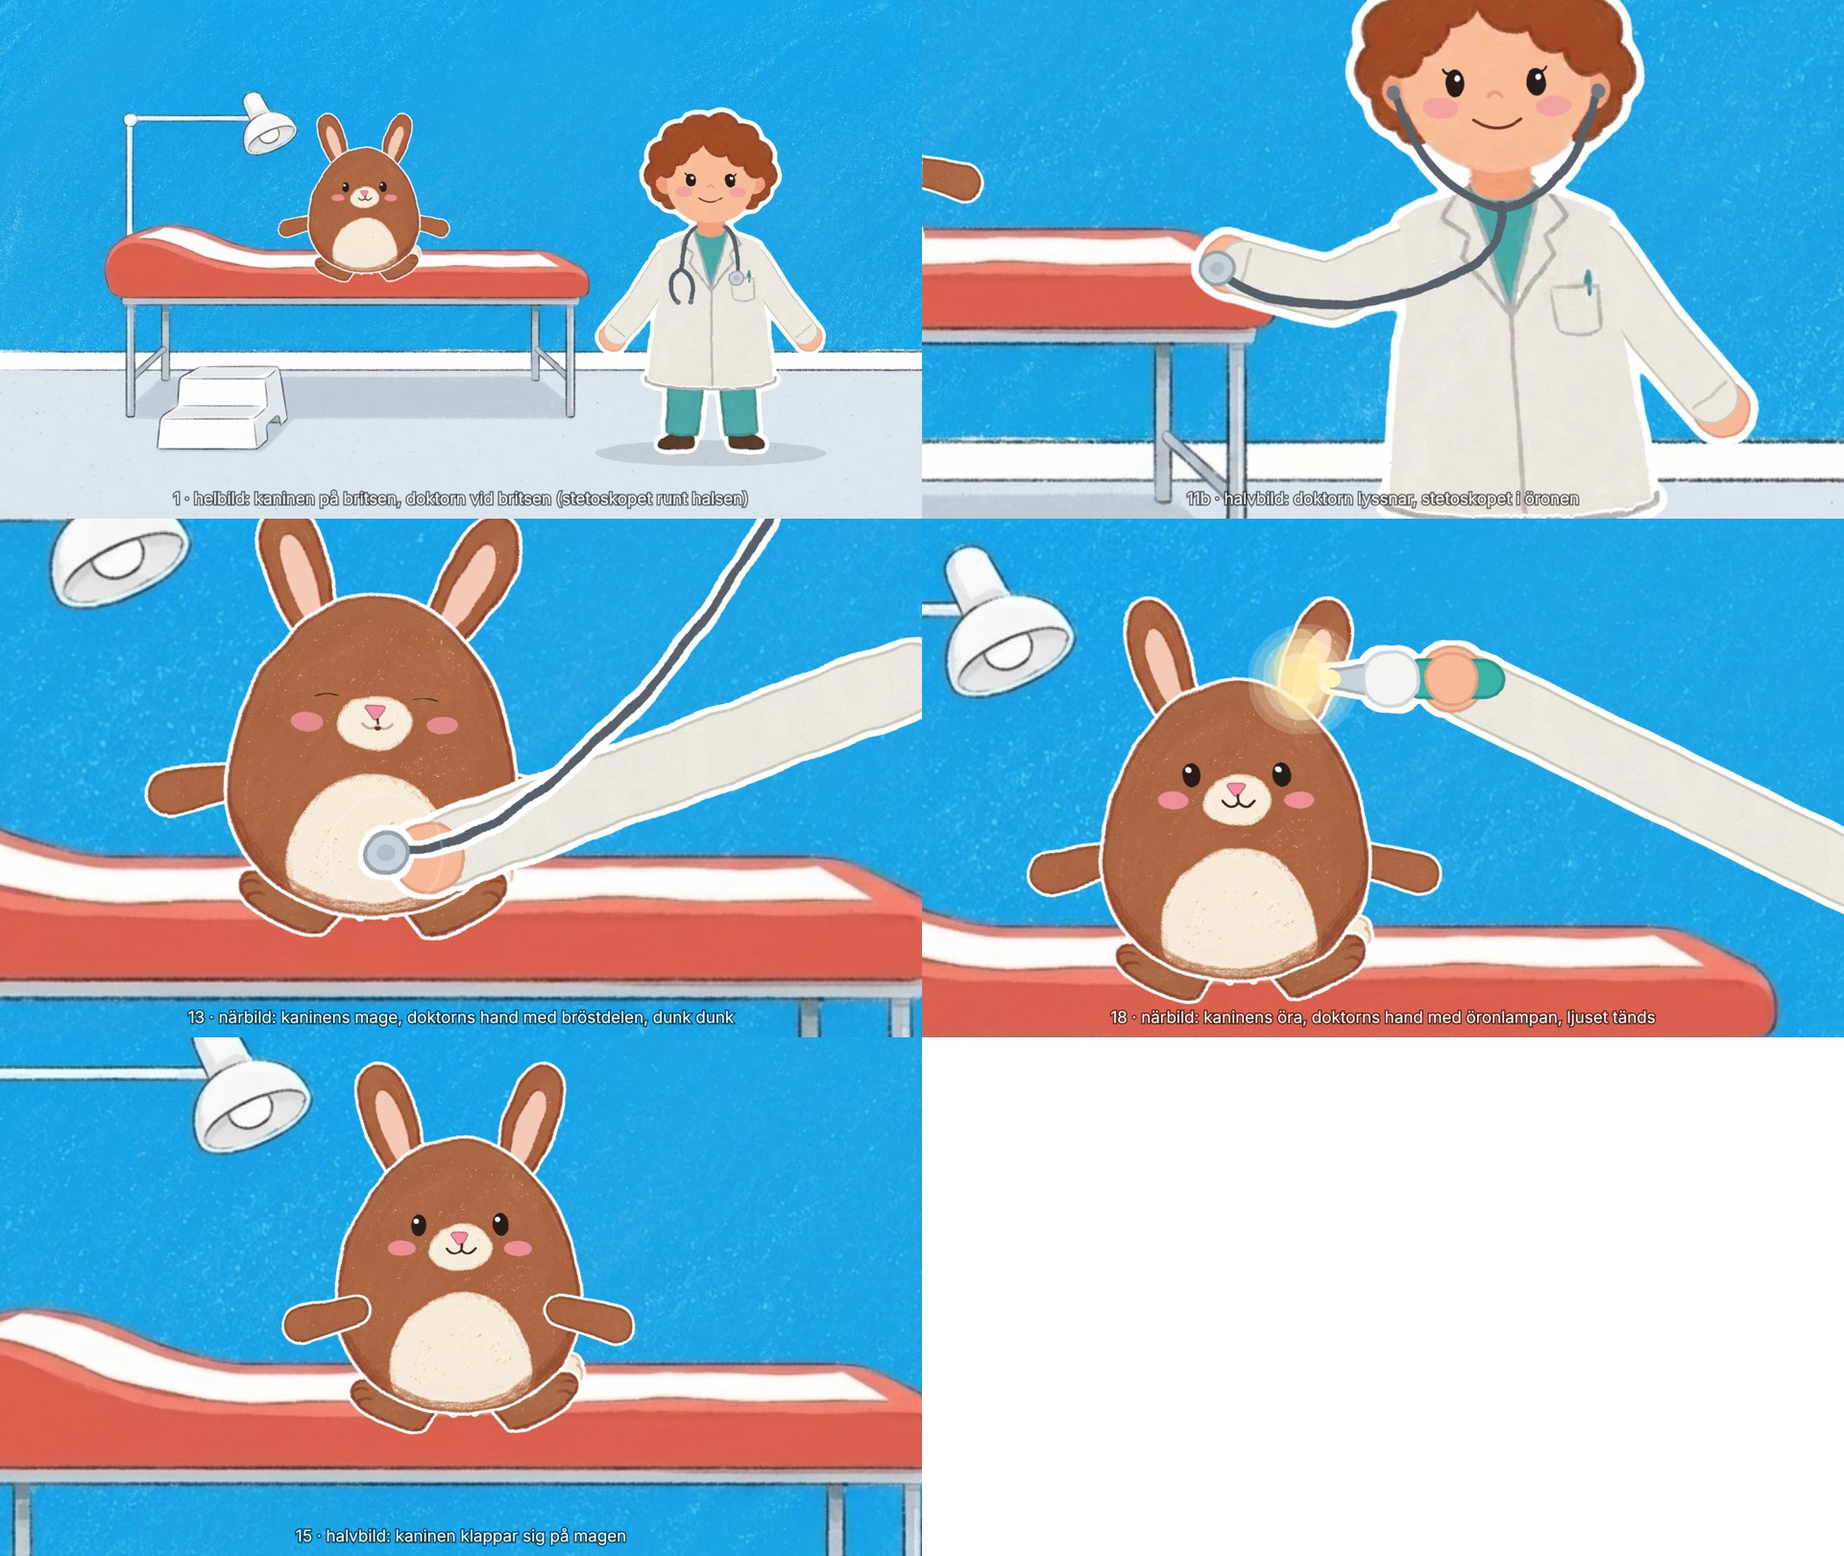
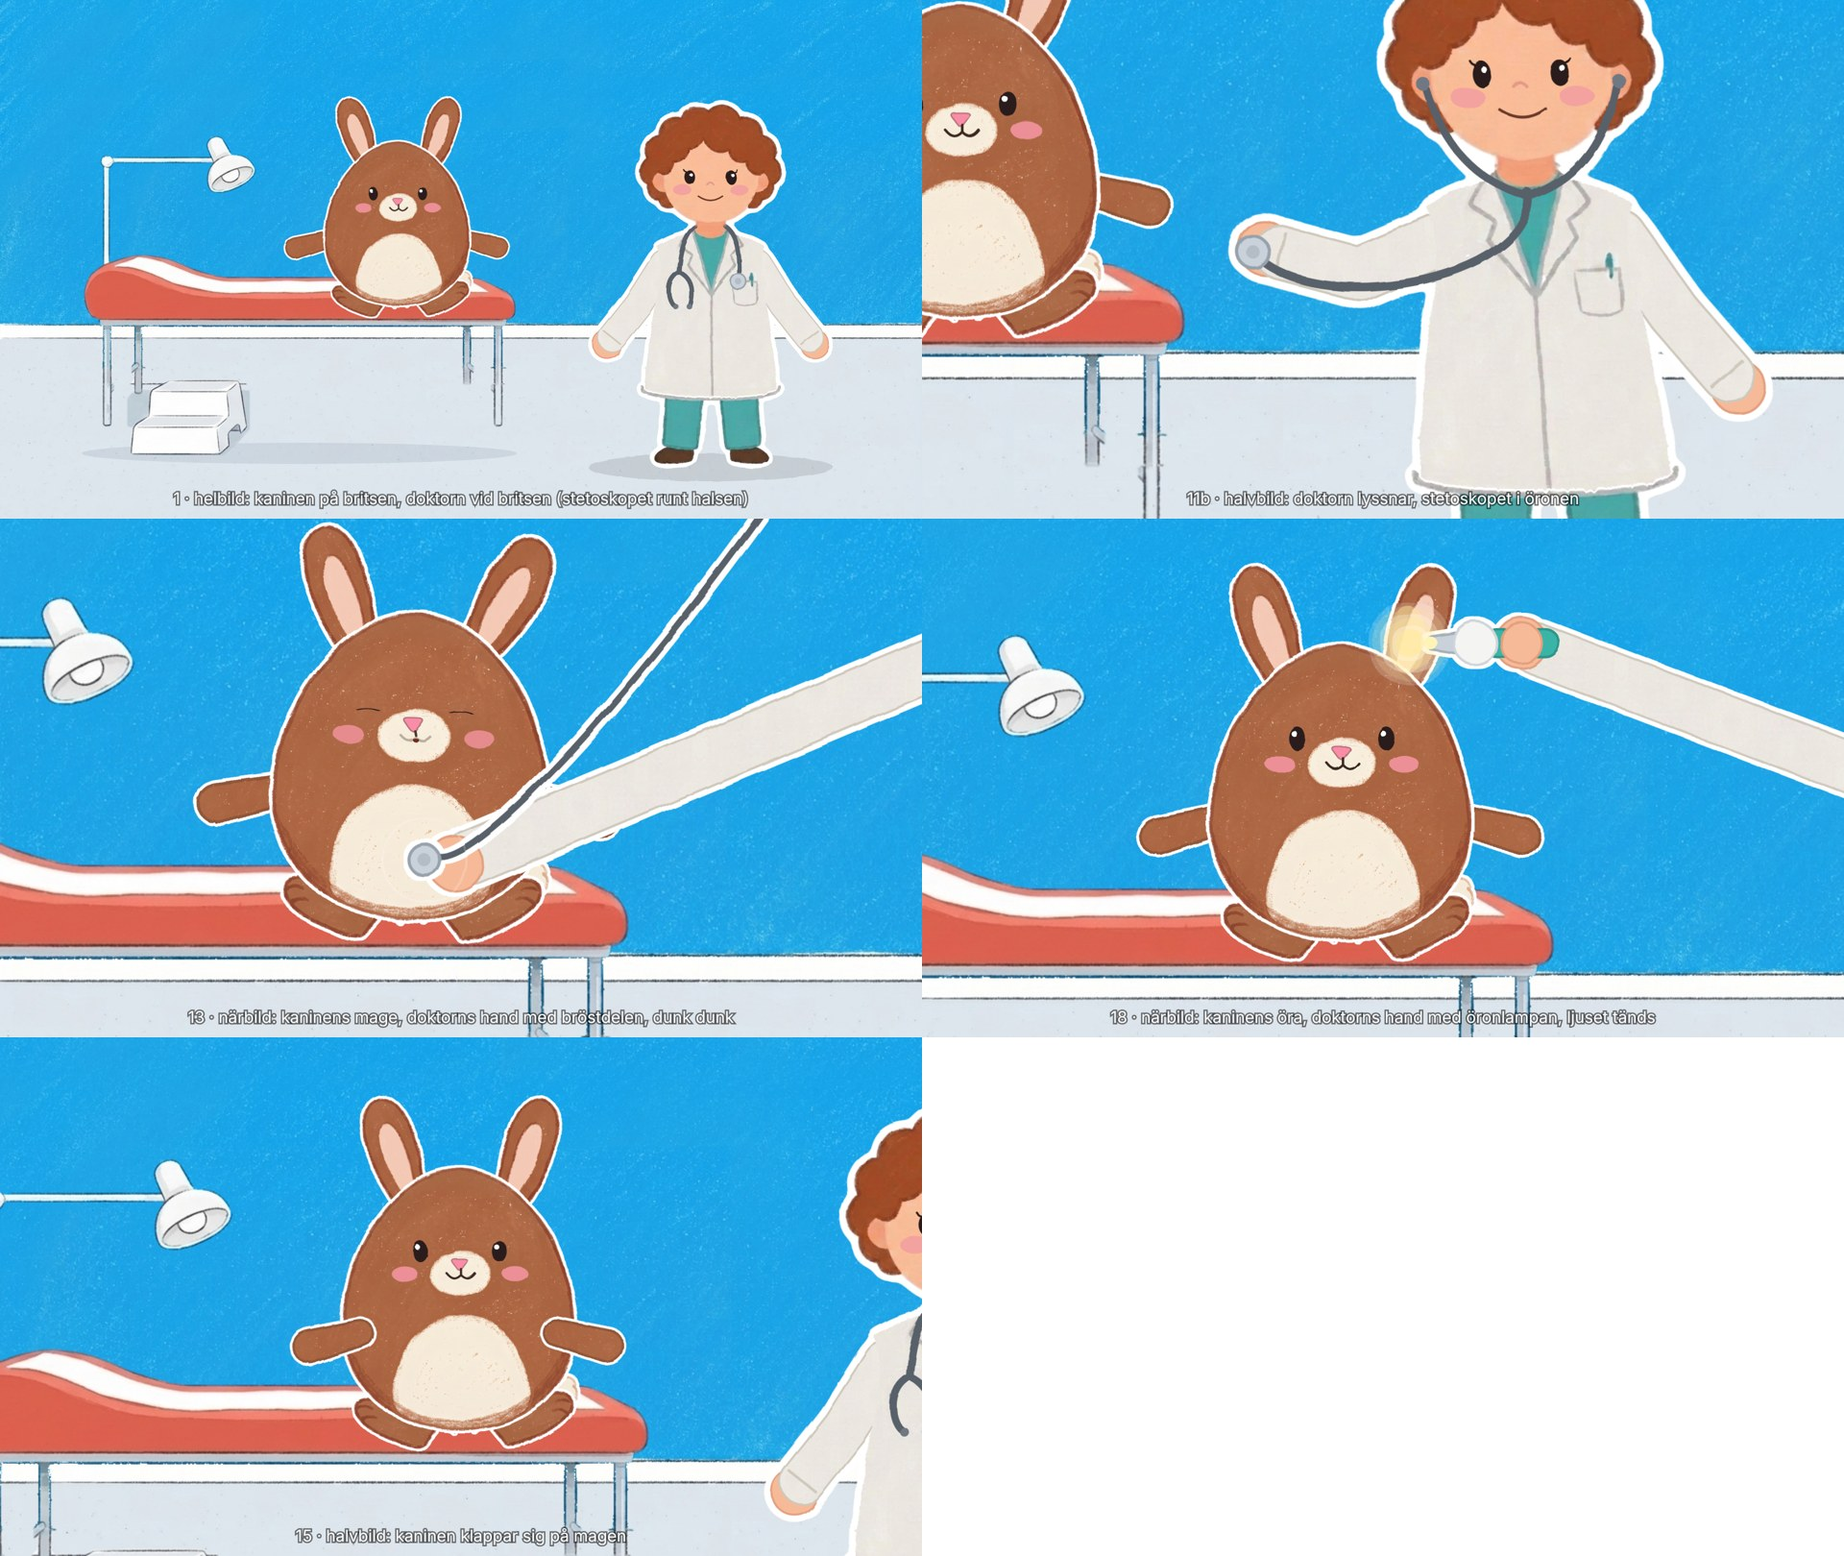
046: komposition v2 – större tomt rum och britsen som eget urklipp (verktyg/mottagning_delar.py), britsen lägre, kaninen större, doktorn dold i närbilderna med instick
Claude-Session: https://claude.ai/code/session_01DEaxNzsmbXEwSKmxFy2aQ3

diff --git a/avsnitt/046-kaninen-gar-till-doktorn/prov/narbilder.html b/avsnitt/046-kaninen-gar-till-doktorn/prov/narbilder.html
@@ -20,7 +20,7 @@
     </filter>
   </defs>
   <g id="kamera">
-    <image href="/assets/bakgrunder/mottagningen/mottagningen-v2.jpg" width="1920" height="1080" preserveAspectRatio="xMidYMid slice"/>
+    <g id="rummet"></g>
     <g filter="url(#boil)"><g id="figurer"></g></g>
     <g filter="url(#boil)"><g id="hand"></g></g>
   </g>
@@ -34,9 +34,14 @@ const $ = id => document.getElementById(id), f1 = v => v.toFixed(1);
 const kl = (k, a = 0, b = 1) => Math.max(a, Math.min(b, k)), mjuk = k => (k = kl(k), k * k * (3 - 2 * k));
 const sok = new URLSearchParams(location.search), BILD = +(sok.get('bild') || 1);
 
-// Mått i 1920×1080 (mottagningen v2, 1376×768 × 1,395): britsens dyna överkant y ca 520 (x 225–1225), pallen x 330–600.
-const DOKTOR = [1480, 955, 0.8];             // bakgrunder/mottagningen.md: x 1480, fötterna y 955, SKALA 0,8
-const KANIN = [760, 600, 0.42];              // sitter på britsen (prövas fram i bild 1)
+// Komposition v2 (Sanna 2026-11-20: "make bunny larger and room bigger bench lower"): det tomma, större rummet
+// (mottagningen-tom.png, verktyg/mottagning_delar.py) fyller bilden, britsen med pallen och lampan är ett eget urklipp
+// som står lägre, och kaninen är större. Golvlisten hamnar kring y 690.
+const RUM = { fil: '/assets/bakgrunder/mottagningen/mottagningen-tom.png', w: 1876, h: 1058 }, RS = 1920 / RUM.w;
+const BRITS = { fil: '/assets/bakgrunder/mottagningen/cut/brits.png', w: 725, h: 536, x: 170, fot: 950, s: 1.25, dyna: 235 };   // fot: benens nederkant, dyna: dynans överkant i urklippet
+const DYNA_Y = BRITS.fot - (BRITS.h - BRITS.dyna) * BRITS.s;
+const DOKTOR = [1480, 985, 0.85];
+const KANIN = [830, DYNA_Y + 105, 0.55];     // sitter på britsen: riggens fötter ca 190 enheter under dynan
 // Kaninens mage och högra öra i riggens 1024-ruta (Kanel: magens fläck, örats insida)
 const MAGE = [540, 700], ORA = [672, 190];
 const DS = DOKTOR[2], HAND = { W: 66 * DS, R: 35 * DS, KANT: '#cfc8bc', HUD: '#f7ba99', HUDKANT: '#e3a07f' };
@@ -72,32 +77,39 @@ function rita(t) {
   if (BILD === 5) kp = { ...kp, fram: [1, 1], klapp: 30 };
   DL.rita(GD, bl(DL.blanda('neutral', 'glad', 1), t), DL.blandaPose('neutral', dp, 1));
   KL.rita(GK, bl(kf, t + 1.3), kp);
+  GD.setAttribute('display', BILD === 3 || BILD === 4 ? 'none' : 'inline');   // närbild med instick: bara doktorns hand syns (receptet)
   $('hand').innerHTML = '';
   const etikett = s => $('text').innerHTML = `<text x="960" y="1050" font-size="34">${s}</text>`;
   if (BILD === 1) { kamera(1, 960, 540); etikett('1 · helbild: kaninen på britsen, doktorn vid britsen (stetoskopet runt halsen)'); }
-  if (BILD === 2) { const [x, y] = punkt(GD.querySelector('.drag'), 512, 420); kamera(2.1, x - 120, y + 40);
+  if (BILD === 2) { const [x, y] = punkt(GD.querySelector('.drag'), 512, 420); kamera(1.9, x - 160, y + 60);
     etikett('11b · halvbild: doktorn lyssnar, stetoskopet i öronen'); }
   if (BILD === 3) {
     const [mx, my] = punkt(GK.querySelector('.mage'), MAGE[0], MAGE[1]);
-    kamera(2.6, mx + 60, my - 60);
+    kamera(1.9, mx + 40, my - 90);
     const inn = mjuk(t / 0.6), bx = mx + 260 * (1 - inn), by = my;
-    $('hand').innerHTML = instick([bx + 34, by + 4], [mx + 420, my - 140], () => '', inn)
-      + `<g filter="url(#saksKant)">${slang(bx + 14, by - 4, mx + 330, my - 330)}${brostdel(bx, by, 17)}</g>`
+    $('hand').innerHTML = instick([bx + 34, by + 4], [mx + 760, my - 300], () => '', inn)
+      + `<g filter="url(#saksKant)">${slang(bx + 14, by - 4, mx + 520, my - 640)}${brostdel(bx, by, 17)}</g>`
       + (inn >= 1 ? ringar(bx, by, t - 0.6) : '');
     etikett('13 · närbild: kaninens mage, doktorns hand med bröstdelen, dunk dunk'); }
   if (BILD === 4) {
     const [ox, oy] = punkt(GK.querySelector('image.ear-r'), ORA[0], ORA[1]);
-    kamera(2.4, ox + 60, oy + 90);
+    kamera(1.8, ox - 40, oy + 160);
     const inn = mjuk(t / 0.6), ljus = kl((t - 0.8) / 0.25);
     $('hand').innerHTML = `<ellipse cx="${f1(ox - 12)}" cy="${f1(oy)}" rx="22" ry="40" fill="#ffe680" opacity="${f1(0.4 * ljus)}"/>`
-      + instick([ox + 120, oy + 4], [ox + 520, oy + 200], (x, y) => oronlampa(x, y, 0, 0.95, ljus)
+      + instick([ox + 120, oy + 4], [ox + 900, oy + 300], (x, y) => oronlampa(x, y, 0, 0.95, ljus)
         + `<circle cx="${f1(x)}" cy="${f1(y)}" r="${f1(HAND.R * 0.8)}" fill="${HAND.HUD}" stroke="${HAND.HUDKANT}" stroke-width="2.5"/>`, inn);
     etikett('18 · närbild: kaninens öra, doktorns hand med öronlampan, ljuset tänds'); }
-  if (BILD === 5) { const [x, y] = punkt(GK.querySelector('.drag'), 512, 560); kamera(2.2, x, y);
+  if (BILD === 5) { const [x, y] = punkt(GK.querySelector('.drag'), 512, 560); kamera(1.6, x, y - 30);
     etikett('15 · halvbild: kaninen klappar sig på magen'); }
   $('brus').setAttribute('seed', Math.floor(t * 10) % 50 + 1);
 }
 
+function rummet() {
+  const bw = BRITS.w * BRITS.s, bh = BRITS.h * BRITS.s;
+  $('rummet').innerHTML = `<image href="${RUM.fil}" width="${f1(RUM.w * RS)}" height="${f1(RUM.h * RS)}"/>
+    <ellipse cx="${f1(BRITS.x + bw / 2)}" cy="${f1(BRITS.fot - 6)}" rx="${f1(bw * 0.5)}" ry="22" fill="#3a5068" opacity="0.10"/>
+    <image href="${BRITS.fil}" x="${BRITS.x}" y="${f1(BRITS.fot - bh)}" width="${f1(bw)}" height="${f1(bh)}"/>`;
+}
 window.seek = t => { window.stilla = true; rita(t); };
 window.ready = (async () => {
   // Figurernas egna <defs> (doktorns #dkant och #rock, kaninens #orrot …) hämtas ur deras rigg-sidor.
@@ -108,6 +120,7 @@ window.ready = (async () => {
       $('defs').appendChild(document.importNode(e, true)); });
   }
   $('defs').insertAdjacentHTML('beforeend', saksKant(4));
+  rummet();
   DL = await v2rigg('doktorn-a'); KL = await v2rigg('kaninen-kanel');
   GD = DL.figur(DOKTOR[0], DOKTOR[1], DOKTOR[2], $('figurer'));
   GK = KL.figur(KANIN[0], KANIN[1], KANIN[2], $('figurer'));

diff --git a/verktyg/mottagning_delar.py b/verktyg/mottagning_delar.py
@@ -1,0 +1,90 @@
+#!/usr/bin/env python3
+"""Mottagningen i delar (046, Sanna 2026-11-20: "make bunny larger and room bigger bench lower, need to work more on composition").
+
+Ur assets/bakgrunder/mottagningen/mottagningen-v2.jpg (1376×768):
+  mottagningen-tom.png   rummet utan brits, pall och lampa, och STÖRRE: väggen och golvet förlängs åt alla håll (upprepas),
+                         så att kameran ser mer av rummet och figurerna blir större i förhållande till det.
+  cut/brits.png          britsen med lampan och pallen (de hänger ihop i bilden), öppningen under britsen genomskinlig
+Väggen, golvlisten och golvet är släta, så det tomma rummet fylls rad för rad med samma rads tomma högra del
+(x 900–1376), mjukt ihopblandat i kanterna. Måtten skrivs till mottagningen-delar.json.
+
+  python3 verktyg/mottagning_delar.py
+"""
+import json
+from pathlib import Path
+import numpy as np
+from PIL import Image
+from scipy import ndimage
+
+MAPP = Path(__file__).resolve().parent.parent / 'assets/bakgrunder/mottagningen'
+src = np.asarray(Image.open(MAPP / 'mottagningen-v2.jpg').convert('RGB')).astype(float)
+H, W, _ = src.shape
+
+# 1. Det tomma rummet: rektangeln med sakerna ersätts av samma rader ur den tomma högra delen (tiling i x).
+X0, X1, Y0, Y1, TOM = 140, 905, 120, 700, 900
+tom = src.copy()
+bredd = W - TOM
+for x in range(X0, X1):
+    sx = TOM + (x - X0) % bredd
+    tom[Y0:Y1, x] = src[Y0:Y1, sx]
+# mjuk kant (12 px) mot originalet runt rektangeln
+mask = np.zeros((H, W)); mask[Y0:Y1, X0:X1] = 1
+mask = ndimage.gaussian_filter(mask, 6)
+tom = src * (1 - mask[..., None]) + tom * mask[..., None]
+
+# 2. Sakerna: det som skiljer originalet från det tomma rummet. Britsen (med lampan) och pallen är de två största bitarna.
+diff = np.abs(src - tom).max(2) > 28
+diff[:, :X0 - 4] = diff[:, X1 + 4:] = False
+diff = ndimage.binary_closing(diff, iterations=3)
+# bara små hål fylls (i dynan och pallen); öppningen under britsen är vägg och ska vara genomskinlig
+hal = ndimage.binary_fill_holes(diff) & ~diff
+hl, hn = ndimage.label(hal)
+if hn: diff |= np.isin(hl, 1 + np.nonzero(ndimage.sum(hal, hl, range(1, hn + 1)) < 1500)[0])
+diff = ndimage.binary_opening(diff, iterations=1)
+# Under dynan (golvlisten och golvet, y ≥ 505) bara benen och pallen, inte skuggan och golvlistens skarvar.
+ben = np.nonzero(diff[465:500].mean(0) > 0.6)[0]                 # benen syns som grå streck mot väggen
+benkol = np.zeros(W, bool)
+for x in ben: benkol[max(0, x - 2):x + 3] = True
+PALL = (slice(530, 672), slice(228, 440))                      # pallen (britsen.png: x 80–275, y 405–536 + utklippets hörn)
+pall = np.zeros((H, W), bool); pall[PALL] = ndimage.binary_fill_holes(ndimage.binary_closing(np.abs(src - tom).max(2)[PALL] > 14, iterations=4))
+pall = ndimage.binary_opening(pall, iterations=2)
+under = np.zeros((H, W), bool); under[505:] = True
+stark = np.abs(src - tom).max(2) > 35
+diff = (diff & ~under) | (stark & under & ndimage.binary_dilation(benkol[None, :] & stark, iterations=2)) | pall
+lab, n = ndimage.label(diff)
+storlek = ndimage.sum(diff, lab, range(1, n + 1))
+bitar = sorted((1 + np.argsort(storlek)[::-1][:2]).tolist(), key=lambda k: np.nonzero(lab == k)[0].min())   # britsen (högst upp) först
+(MAPP / 'cut').mkdir(exist_ok=True)
+matt = {}
+for namn, k in zip(['brits'], bitar):   # britsen, lampan och pallen hänger ihop: en bit
+    m = lab == k
+    ys, xs = np.nonzero(m); y0, y1, x0, x1 = ys.min(), ys.max() + 1, xs.min(), xs.max() + 1
+    img = np.zeros((y1 - y0, x1 - x0, 4), np.uint8)
+    img[..., :3] = src[y0:y1, x0:x1].clip(0, 255)
+    a = ndimage.gaussian_filter(m[y0:y1, x0:x1].astype(float), 0.8)
+    img[..., 3] = (a.clip(0, 1) * 255).astype(np.uint8)
+    bla = (img[..., 2] > 170) & (img[..., 0] < 120)            # väggens blå i kanten runt benen och ramen
+    img[bla, 3] = 0
+    Image.fromarray(img).save(MAPP / 'cut' / f'{namn}.png')
+    matt[namn] = {'x': int(x0), 'y': int(y0), 'w': int(x1 - x0), 'h': int(y1 - y0)}
+
+# 3. Större rum: väggen och golvet upprepas (förskjutna, inte speglade: spegling ger synliga kalejdoskopmönster i kornet).
+UPP, NER, SID = 140, 150, 250
+# Varje utfyllnad är en förskjuten kopia av bildens egen kant, och skarven tonas över T px.
+T = 60
+def forlang(a, ut, axel, fore):
+    n = a.shape[axel]; kopia = np.take(a, range(0, ut + T) if fore else range(n - ut - T, n), axis=axel)
+    vikt = np.linspace(0, 1, T); vikt = vikt if fore else vikt[::-1]
+    form = [1, 1, 1]; form[axel] = T; vikt = vikt.reshape(form)
+    if fore:   # kopian ligger före bilden; dess sista T rader tonas in i bildens första T
+        mitt = np.take(kopia, range(ut, ut + T), axis=axel) * (1 - vikt) + np.take(a, range(T), axis=axel) * vikt
+        return np.concatenate([np.take(kopia, range(ut), axis=axel), mitt, np.take(a, range(T, n), axis=axel)], axis=axel)
+    mitt = np.take(a, range(n - T, n), axis=axel) * vikt + np.take(kopia, range(T), axis=axel) * (1 - vikt)
+    return np.concatenate([np.take(a, range(n - T), axis=axel), mitt, np.take(kopia, range(T, ut + T), axis=axel)], axis=axel)
+stor = forlang(forlang(tom, SID, 1, True), SID, 1, False)
+stor = forlang(forlang(stor, UPP, 0, True), NER, 0, False)
+Image.fromarray(stor.clip(0, 255).astype(np.uint8)).save(MAPP / 'mottagningen-tom.png')
+matt['tom'] = {'w': stor.shape[1], 'h': stor.shape[0], 'utfyllnad': {'upp': UPP, 'ner': NER, 'sida': SID},
+               'golvlist': [520 + UPP, 545 + UPP]}
+(MAPP / 'mottagningen-delar.json').write_text(json.dumps(matt, indent=2, ensure_ascii=False) + '\n')
+print(json.dumps(matt, ensure_ascii=False))

diff --git a/bakgrunder/mottagningen.md b/bakgrunder/mottagningen.md
@@ -14,7 +14,9 @@ Inget fönster, inga gardiner, ingen växt, inga tavlor, inga kors (rödakorsmä
 
 Stetoskopet och öronlampan är egna urklipp (grind 2, `rekvisita/`). Vågen och linjalen från receptets "andra moment" kommer inte med i piloten.
 
-**Bild som används: `assets/bakgrunder/mottagningen/mottagningen-v2.jpg`** (2026-11-20): D redigerad i Flow, utan kritstreck på väggen och utan handfat (original `original/mottagningen-d2.jpg`). **v1** = alternativ D (vald av Sanna 2026-11-20), `mottagningen-v1.jpg` (1376×768, original `original/mottagningen-d1.jpg`): himmelsblå vägg, vit golvlist, korallröd brits med papper och höjd huvudända, tunn öppen metallram, vit pall, en vit undersökningslampa på väggarm ovanför britsens vänstra ände, handfatet avskuret i vänsterkanten. Nästa: en redigering utan kritstreck och utan handfat (prompten längst ner). Jämförelse med alla tagningar: `original/jamforelse.jpg`.
+**Komposition v2, i delar (Sanna 2026-11-20: *"make bunny larger and room bigger bench lower"*):** `python3 verktyg/mottagning_delar.py` gör ur v2 ett **tomt, större rum** (`mottagningen-tom.png`, 1876×1058: britsen, pallen och lampan borttagna, väggen och golvet förlängda) och **britsen med pallen och lampan som urklipp** (`cut/brits.png`, 725×536, öppningen under britsen genomskinlig). Måtten i `mottagningen-delar.json`. I 046-provet (`avsnitt/046-kaninen-gar-till-doktorn/prov/narbilder.html`): rummet fyller bilden (skala 1,023, golvlisten kring y 690), britsen skala 1,25 med benen på y 950 (dynan ca y 575), kaninen skala 0,55 på britsen, doktorn x 1480, fötterna y 985, skala 0,85.
+
+**Bild som används (före komposition v2): `assets/bakgrunder/mottagningen/mottagningen-v2.jpg`** (2026-11-20): D redigerad i Flow, utan kritstreck på väggen och utan handfat (original `original/mottagningen-d2.jpg`). **v1** = alternativ D (vald av Sanna 2026-11-20), `mottagningen-v1.jpg` (1376×768, original `original/mottagningen-d1.jpg`): himmelsblå vägg, vit golvlist, korallröd brits med papper och höjd huvudända, tunn öppen metallram, vit pall, en vit undersökningslampa på väggarm ovanför britsens vänstra ände, handfatet avskuret i vänsterkanten. Nästa: en redigering utan kritstreck och utan handfat (prompten längst ner). Jämförelse med alla tagningar: `original/jamforelse.jpg`.
 
 Tidigare plan (alternativ A): Google Flow, Nano Banana Pro, 16:9, 0 krediter, Sanna kör Flow själv. Bild 1 = `assets/bakgrunder/vardagsrummet/vardagsrummet-v2.jpeg` (bara stilreferens, kopia i `~/Downloads/mottagningen-stilref-vardagsrummet.jpg`). Fyra tagningar. Lägg tagningarna i `assets/bakgrunder/mottagningen/original/`.
 

diff --git a/avsnitt/046-kaninen-gar-till-doktorn/manus.md b/avsnitt/046-kaninen-gar-till-doktorn/manus.md
@@ -1,6 +1,6 @@
 # Avsnitt 046 – Kaninen går till doktorn (plan)
 
-**Status:** plan 2026-11-20, **grind 1 (manus) godkänd av Sanna 2026-11-20**, version 1. Grind 2: doktorn A (nu utan inbakat stetoskop), mottagningen v2, stetoskopet och öronlampan i kod (`uttryck.html?ark=saker`). Närbildsprovet: [`prov/narbilder.html`](prov/narbilder.html) (`node avsnitt/046-kaninen-gar-till-doktorn/prov/prov.mjs`), kontaktark `prov/narbilder-kontakt.jpg`: helbild, doktorn lyssnar med stetoskopet i öronen (11b), magen med bröstdelen (13), örat med lampan (18), klapp på magen (15). Doktorns hand i närbilderna är rockärm + hand i kod med vit kant. Nästa: Sannas ok på provet, sedan grind 3 (Malins röst). Piloten för **Besöket** ([`format/besoket.md`](../../format/besoket.md)), en gren av bilderboken ([`format/bilderbok.md`](../../format/bilderbok.md), skillen `bilderbok`). Avsnittet förbereder små barn för ett besök hos doktorn. Malin berättar och kaninen svarar med ljud, öron och ansikte. **Doktorn säger inget**, **ingen spruta**, **bara mottagningen** (Sanna 2026-11-20). Inget är byggt än. Ca 4 min.
+**Status:** plan 2026-11-20, **grind 1 (manus) godkänd av Sanna 2026-11-20**, version 1. Grind 2: doktorn A (nu utan inbakat stetoskop), mottagningen v2, stetoskopet och öronlampan i kod (`uttryck.html?ark=saker`). Närbildsprovet: [`prov/narbilder.html`](prov/narbilder.html) (`node avsnitt/046-kaninen-gar-till-doktorn/prov/prov.mjs`), kontaktark `prov/narbilder-kontakt.jpg`: helbild, doktorn lyssnar med stetoskopet i öronen (11b), magen med bröstdelen (13), örat med lampan (18), klapp på magen (15). Doktorns hand i närbilderna är rockärm + hand i kod med vit kant. **Komposition v2** (Sanna 2026-11-20): större rum, britsen lägre som eget urklipp, kaninen större (0,55), doktorn syns inte i närbilderna med instick (se `bakgrunder/mottagningen.md`). Nästa: Sannas ok på provet, sedan grind 3 (Malins röst). Piloten för **Besöket** ([`format/besoket.md`](../../format/besoket.md)), en gren av bilderboken ([`format/bilderbok.md`](../../format/bilderbok.md), skillen `bilderbok`). Avsnittet förbereder små barn för ett besök hos doktorn. Malin berättar och kaninen svarar med ljud, öron och ansikte. **Doktorn säger inget**, **ingen spruta**, **bara mottagningen** (Sanna 2026-11-20). Inget är byggt än. Ca 4 min.
 
 | | |
 |---|---|
